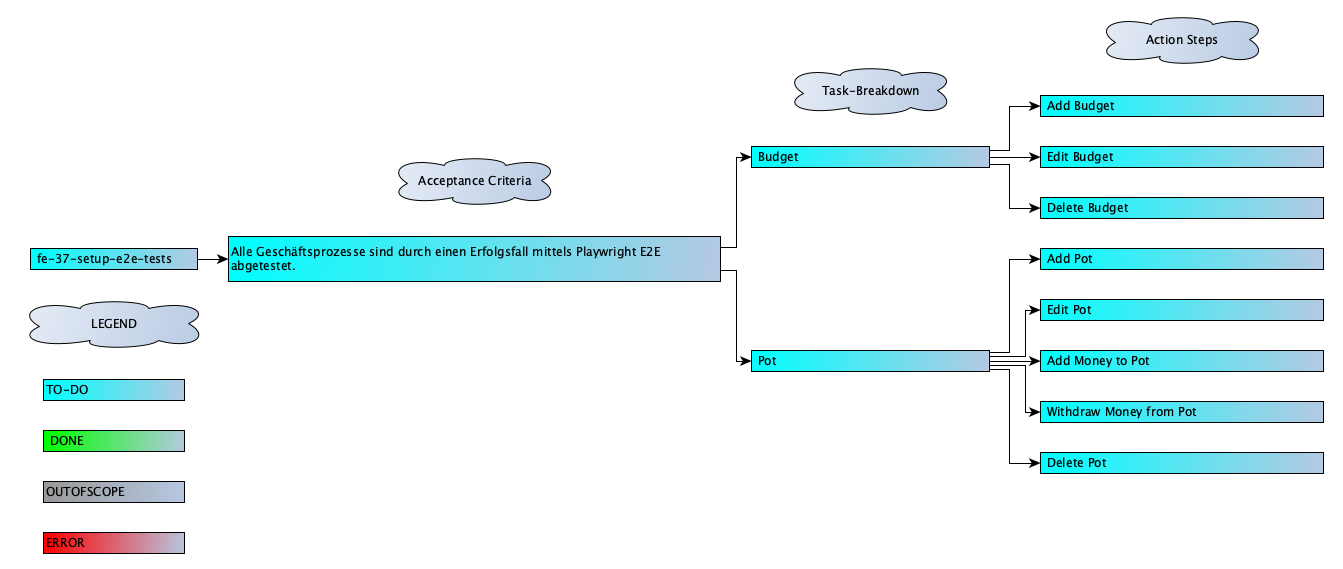
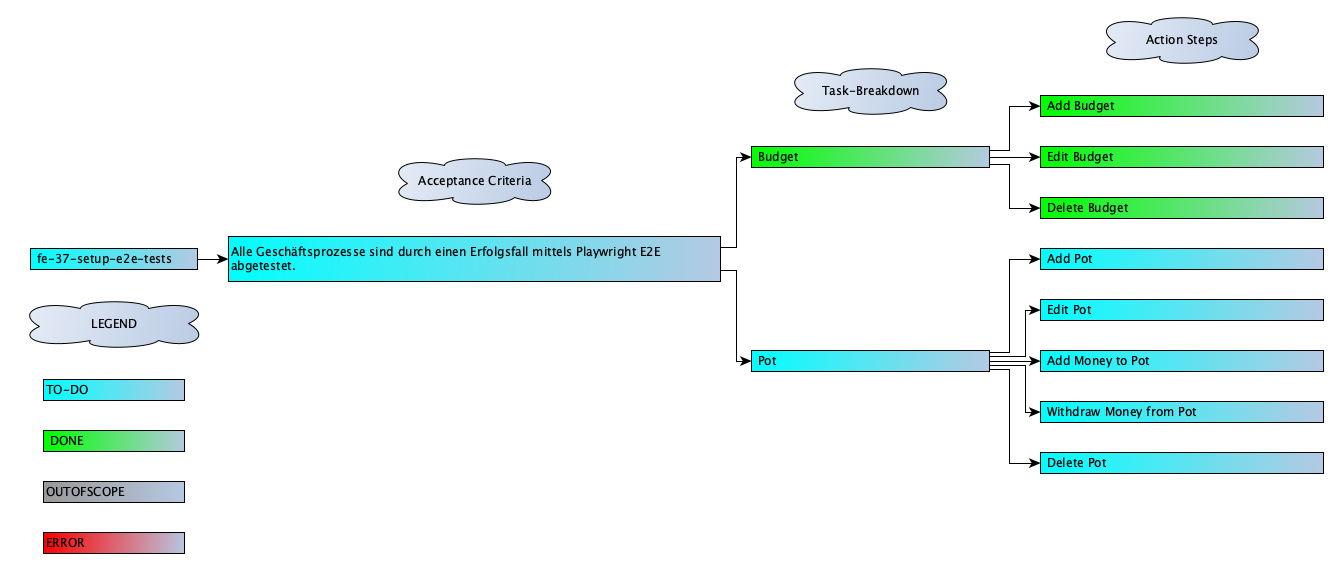
fe-37 add e2e-tests for budgets

diff --git a/frontend/ui-tests/e2e-tests/Budgets.spec.ts b/frontend/ui-tests/e2e-tests/Budgets.spec.ts
@@ -1,0 +1,69 @@
+import { test } from '@playwright/test';
+import { Locator } from 'playwright';
+import { selectHeaderButton } from './utils/selectorMethods';
+import { AddNewBudget } from './utils/budgets/AddNewBudget';
+import { EditBudget } from './utils/budgets/EditBudget';
+import { DeleteBudget } from './utils/budgets/DeleteBudget';
+
+test('add new budget', async ({ page }) => {
+  await page.goto('http://localhost:5173/budgets', { waitUntil: 'networkidle' });
+
+  const headerButton: Locator = selectHeaderButton(page);
+  await headerButton.click();
+
+  const dropdownGeneral: Locator = AddNewBudget.selectCategoryDropdown(page, 'General');
+  await dropdownGeneral.click();
+
+  const dropdownListItemGeneral: Locator = AddNewBudget.selectCategoryDropdownListItem(
+    page,
+    'General'
+  );
+  await dropdownListItemGeneral.click();
+
+  const moneyInputField: Locator = AddNewBudget.selectMoneyInputField(page);
+  await moneyInputField.fill('2000');
+
+  const dropdownColor: Locator = AddNewBudget.selectColorDropdown(page, 'Red');
+  await dropdownColor.click();
+
+  const dropdownColorListItem: Locator = AddNewBudget.selectColorDropdownListItem(page, 'Red');
+  await dropdownColorListItem.click();
+
+  const submitButton: Locator = AddNewBudget.selectSubmitButton(page);
+  await submitButton.click();
+});
+
+test('edit budget', async ({ page }) => {
+  await page.goto('http://localhost:5173/budgets', { waitUntil: 'networkidle' });
+
+  const cardHeaderIconGeneral: Locator = EditBudget.selectCardHeaderEditIcon(page, 'General');
+  await cardHeaderIconGeneral.click();
+
+  const dropdownItem: Locator = EditBudget.selectCardHeaderIconDropdownItemEdit(page, 'General');
+  await dropdownItem.waitFor({ state: 'visible' });
+  await dropdownItem.click();
+
+  const moneyInputField: Locator = EditBudget.selectMoneyInputField(page, 'general');
+  await moneyInputField.waitFor({ state: 'visible' });
+  await moneyInputField.fill('1000');
+
+  const submitButton: Locator = EditBudget.selectSubmitButton(page);
+  await submitButton.click();
+});
+
+test('delete budget', async ({ page }) => {
+  await page.goto('http://localhost:5173/budgets', { waitUntil: 'networkidle' });
+
+  const cardHeaderIconGeneral: Locator = EditBudget.selectCardHeaderEditIcon(page, 'General');
+  await cardHeaderIconGeneral.click();
+
+  const dropdownItem: Locator = DeleteBudget.selectCardHeaderIconDropdownItemDelete(
+    page,
+    'General'
+  );
+  await dropdownItem.waitFor({ state: 'visible' });
+  await dropdownItem.click();
+
+  const submitButton: Locator = DeleteBudget.selectSubmitButton(page, 'general');
+  await submitButton.click();
+});

diff --git a/frontend/playwright.config.ts b/frontend/playwright.config.ts
@@ -1,32 +1,33 @@
 import { defineConfig } from '@playwright/test';
 
 export default defineConfig({
-  testDir: './ui-tests', // Verzeichnis für deine Tests
-  timeout: 30000, // Standard Timeout für Tests (30 Sekunden)
-  retries: 1, // Anzahl der Wiederholungen bei fehlgeschlagenen Tests
+  workers: 1,
+  testDir: './ui-tests',
+  timeout: 30000,
+  retries: 1,
   use: {
-    headless: true, // Headless-Modus (setze auf false, um Browser-Fenster zu sehen)
-    viewport: { width: 1280, height: 720 }, // Standard-Bildschirmgröße
-    actionTimeout: 0, // Kein Timeout für Aktionen
-    ignoreHTTPSErrors: true, // Ignoriere HTTPS-Fehler
-    video: 'retain-on-failure', // Video aufzeichnen bei Fehlern
-    screenshot: 'only-on-failure', // Speichere Screenshots bei Fehlern
-    trace: 'retain-on-failure', // Trace bei Fehlern speichern
+    headless: true,
+    viewport: { width: 1280, height: 720 },
+    actionTimeout: 0,
+    ignoreHTTPSErrors: true,
+    video: 'retain-on-failure',
+    screenshot: 'only-on-failure',
+    trace: 'retain-on-failure',
   },
   projects: [
     {
       name: 'chromium',
-      use: { browserName: 'chromium' }, // Tests im Chromium-Browser
+      use: { browserName: 'chromium' },
     },
     {
       name: 'firefox',
-      use: { browserName: 'firefox' }, // Tests im Firefox-Browser
+      use: { browserName: 'firefox' },
     },
     {
       name: 'webkit',
-      use: { browserName: 'webkit' }, // Tests im Webkit-Browser
+      use: { browserName: 'webkit' },
     },
   ],
-  reporter: [['list'], ['html', { outputFolder: 'ui-tests/test-results/html' }]], // Verwende 'list' und 'html' Reporter
+  reporter: [['list'], ['html', { outputFolder: 'ui-tests/test-results/html' }]],
   outputDir: 'ui-tests/test-results/artifacts',
 });

diff --git a/frontend/ui-tests/e2e-tests/utils/budgets/AddNewBudget.ts b/frontend/ui-tests/e2e-tests/utils/budgets/AddNewBudget.ts
@@ -1,0 +1,33 @@
+import { Locator, Page } from 'playwright';
+
+export class AddNewBudget {
+  private static getForm(page: Page) {
+    return page.getByTestId('overlay-content-add-new-budget');
+  }
+
+  public static selectCategoryDropdown(page: Page, category: string): Locator {
+    return AddNewBudget.getForm(page).locator('.dropdownCategoryBar').filter({ hasText: category });
+  }
+
+  public static selectCategoryDropdownListItem(page: Page, category: string): Locator {
+    return AddNewBudget.getForm(page)
+      .locator('.dropdownCategoryListItem')
+      .filter({ hasText: category });
+  }
+
+  public static selectMoneyInputField(page: Page): Locator {
+    return AddNewBudget.getForm(page).locator('.inputMoneyInput');
+  }
+
+  public static selectColorDropdown(page: Page, color: string): Locator {
+    return AddNewBudget.getForm(page).locator('.dropdownColorWrapper').filter({ hasText: color });
+  }
+
+  public static selectColorDropdownListItem(page: Page, color: string): Locator {
+    return AddNewBudget.getForm(page).locator('.dropDownColorListItem').filter({ hasText: color });
+  }
+
+  public static selectSubmitButton(page: Page): Locator {
+    return page.getByRole('button', { name: 'Add Budget' });
+  }
+}

diff --git a/frontend/src/components/atoms/MoneyInput.tsx b/frontend/src/components/atoms/MoneyInput.tsx
@@ -15,6 +15,7 @@ interface Props {
   handleInputChange: (input: number) => void;
   hasValidInput: boolean;
   isLimitInput: boolean;
+  budgetKey: string;
   initialValue?: string;
   maxInput?: number;
 }
@@ -28,7 +29,14 @@ const MoneyInput: ForwardRefExoticComponent<Props & RefAttributes<InputMoneyRef>
   Props
 >(
   (
-    { handleInputChange, hasValidInput, isLimitInput, initialValue = '', maxInput = -1 }: Props,
+    {
+      handleInputChange,
+      hasValidInput,
+      isLimitInput,
+      budgetKey,
+      initialValue = '',
+      maxInput = -1,
+    }: Props,
     ref: ForwardedRef<InputMoneyRef>
   ): ReactNode => {
     const [value, setValue] = useState<string>(initialValue);
@@ -90,7 +98,7 @@ const MoneyInput: ForwardRefExoticComponent<Props & RefAttributes<InputMoneyRef>
       <div className="inputMoneyContainer">
         <div className="inputMoney" data-testid="input-money">
           <input
-            className="inputMoneyInput"
+            className={`inputMoneyInput ${budgetKey}`}
             placeholder="e.g. 2000"
             value={value}
             onChange={handleChange}

diff --git a/frontend/ui-tests/e2e-tests/utils/budgets/EditBudget.ts b/frontend/ui-tests/e2e-tests/utils/budgets/EditBudget.ts
@@ -1,0 +1,26 @@
+import { Locator, Page } from 'playwright';
+
+export class EditBudget {
+  private static getForm(page: Page) {
+    return page.getByTestId('overlay-content-edit-budget');
+  }
+
+  public static selectCardHeaderEditIcon(page: Page, category: string): Locator {
+    return page.locator('.cardHeader').filter({ hasText: category }).locator('.cardHeaderEditIcon');
+  }
+
+  public static selectCardHeaderIconDropdownItemEdit(page: Page, category: string): Locator {
+    return page
+      .locator('.cardHeader')
+      .filter({ hasText: category })
+      .locator('.cardHeaderDropdownItem.edit');
+  }
+
+  public static selectMoneyInputField(page: Page, category: string): Locator {
+    return EditBudget.getForm(page).locator(`.inputMoneyInput.${category}`);
+  }
+
+  public static selectSubmitButton(page: Page): Locator {
+    return page.getByRole('button', { name: 'Save Changes' });
+  }
+}

diff --git a/frontend/src/components/overlay/OverlayContentDeleteBudget.tsx b/frontend/src/components/overlay/OverlayContentDeleteBudget.tsx
@@ -2,14 +2,15 @@ import './OverlayContentDeleteBudget.scss';
 
 interface Props {
   handleClick: () => void;
+  budgetKey: string;
 }
 
-const OverlayContentDeleteBudget = ({ handleClick }: Props) => {
+const OverlayContentDeleteBudget = ({ handleClick, budgetKey }: Props) => {
   const buttonText: string = 'Yes, Confirm Deletion';
 
   return (
     <button
-      className="overlayContentDeleteBudget"
+      className={`overlayContentDeleteBudget ${budgetKey}`}
       data-testid="overlay-content-delete-budget"
       onClick={handleClick}
     >

diff --git a/frontend/src/components/atoms/MoneyInput.spec.tsx b/frontend/src/components/atoms/MoneyInput.spec.tsx
@@ -6,15 +6,18 @@ describe('MoneyInput', () => {
   const mockHandleInputChange: jest.Mock = jest.fn();
   const hasValidInput: boolean = false;
   const isLimitInput: boolean = true;
+  const budgetKey: string = 'testBudget';
 
   const testProps: {
     handleInputChange: jest.Mock;
     hasValidInput: boolean;
     isLimitInput: boolean;
+    budgetKey: string;
   } = {
     handleInputChange: mockHandleInputChange,
     hasValidInput,
     isLimitInput,
+    budgetKey,
   };
 
   let inputMoneyRef: React.RefObject<InputMoneyRef>;

diff --git a/frontend/ui-tests/e2e-tests/utils/budgets/DeleteBudget.ts b/frontend/ui-tests/e2e-tests/utils/budgets/DeleteBudget.ts
@@ -1,0 +1,14 @@
+import { Locator, Page } from 'playwright';
+
+export class DeleteBudget {
+  public static selectCardHeaderIconDropdownItemDelete(page: Page, category: string): Locator {
+    return page
+      .locator('.cardHeader')
+      .filter({ hasText: category })
+      .locator('.cardHeaderDropdownItem.delete');
+  }
+
+  public static selectSubmitButton(page: Page, category: string): Locator {
+    return page.locator(`.overlayContentDeleteBudget.${category}`);
+  }
+}

diff --git a/frontend/src/components/budgets/BudgetCard/BudgetCard.tsx b/frontend/src/components/budgets/BudgetCard/BudgetCard.tsx
@@ -191,7 +191,10 @@ const BudgetCard: ({
             onClose={closeForm}
             buttonType={OverlayCardBoxButtonTypeEnum.ABORT}
           >
-            <OverlayContentDeleteBudget handleClick={handleDeleteBudget} />
+            <OverlayContentDeleteBudget
+              handleClick={handleDeleteBudget}
+              budgetKey={budget.categoryKey}
+            />
           </OverlayCardBox>
         </div>
       )}

diff --git a/frontend/src/components/overlay/OverlayContentDeleteBudget.spec.tsx b/frontend/src/components/overlay/OverlayContentDeleteBudget.spec.tsx
@@ -3,9 +3,11 @@ import OverlayContentDeleteBudget from './OverlayContentDeleteBudget';
 
 describe('OverlayContentDeleteBudget', () => {
   const mockHandleClick = jest.fn();
+  const budgetKey: string = 'budgetKey';
 
   const testProps = {
     handleClick: mockHandleClick,
+    budgetKey,
   };
 
   it('renders button overlayContentDeleteBudget with correct text', () => {

diff --git a/frontend/src/components/atoms/CardHeaderDropdownItemLabel.tsx b/frontend/src/components/atoms/CardHeaderDropdownItemLabel.tsx
@@ -37,7 +37,7 @@ const CardHeaderDropdownItemLabel: ({
 }: Props): ReactNode => {
   return (
     <div
-      className={`cardHeaderDropdownItem ${itemColor}`}
+      className={`cardHeaderDropdownItem ${itemColor} ${itemOperation.toLowerCase()}`}
       data-testid="card-header-dropdown-item"
       tabIndex={0}
       onClick={() => handleDropdownClick(itemOperation)}

diff --git a/frontend/ui-tests/e2e-tests/App.spec.ts b/frontend/ui-tests/e2e-tests/App.spec.ts
@@ -1,7 +1,7 @@
 import { test, expect } from '@playwright/test';
 
 test('page title', async ({ page }) => {
-  await page.goto('http://localhost:5173/');
-  const title = await page.title();
+  await page.goto('http://localhost:5173/', { waitUntil: 'networkidle' });
+  const title: string = await page.title();
   expect(title).toBe("Philipp Kraatz' finance");
 });
